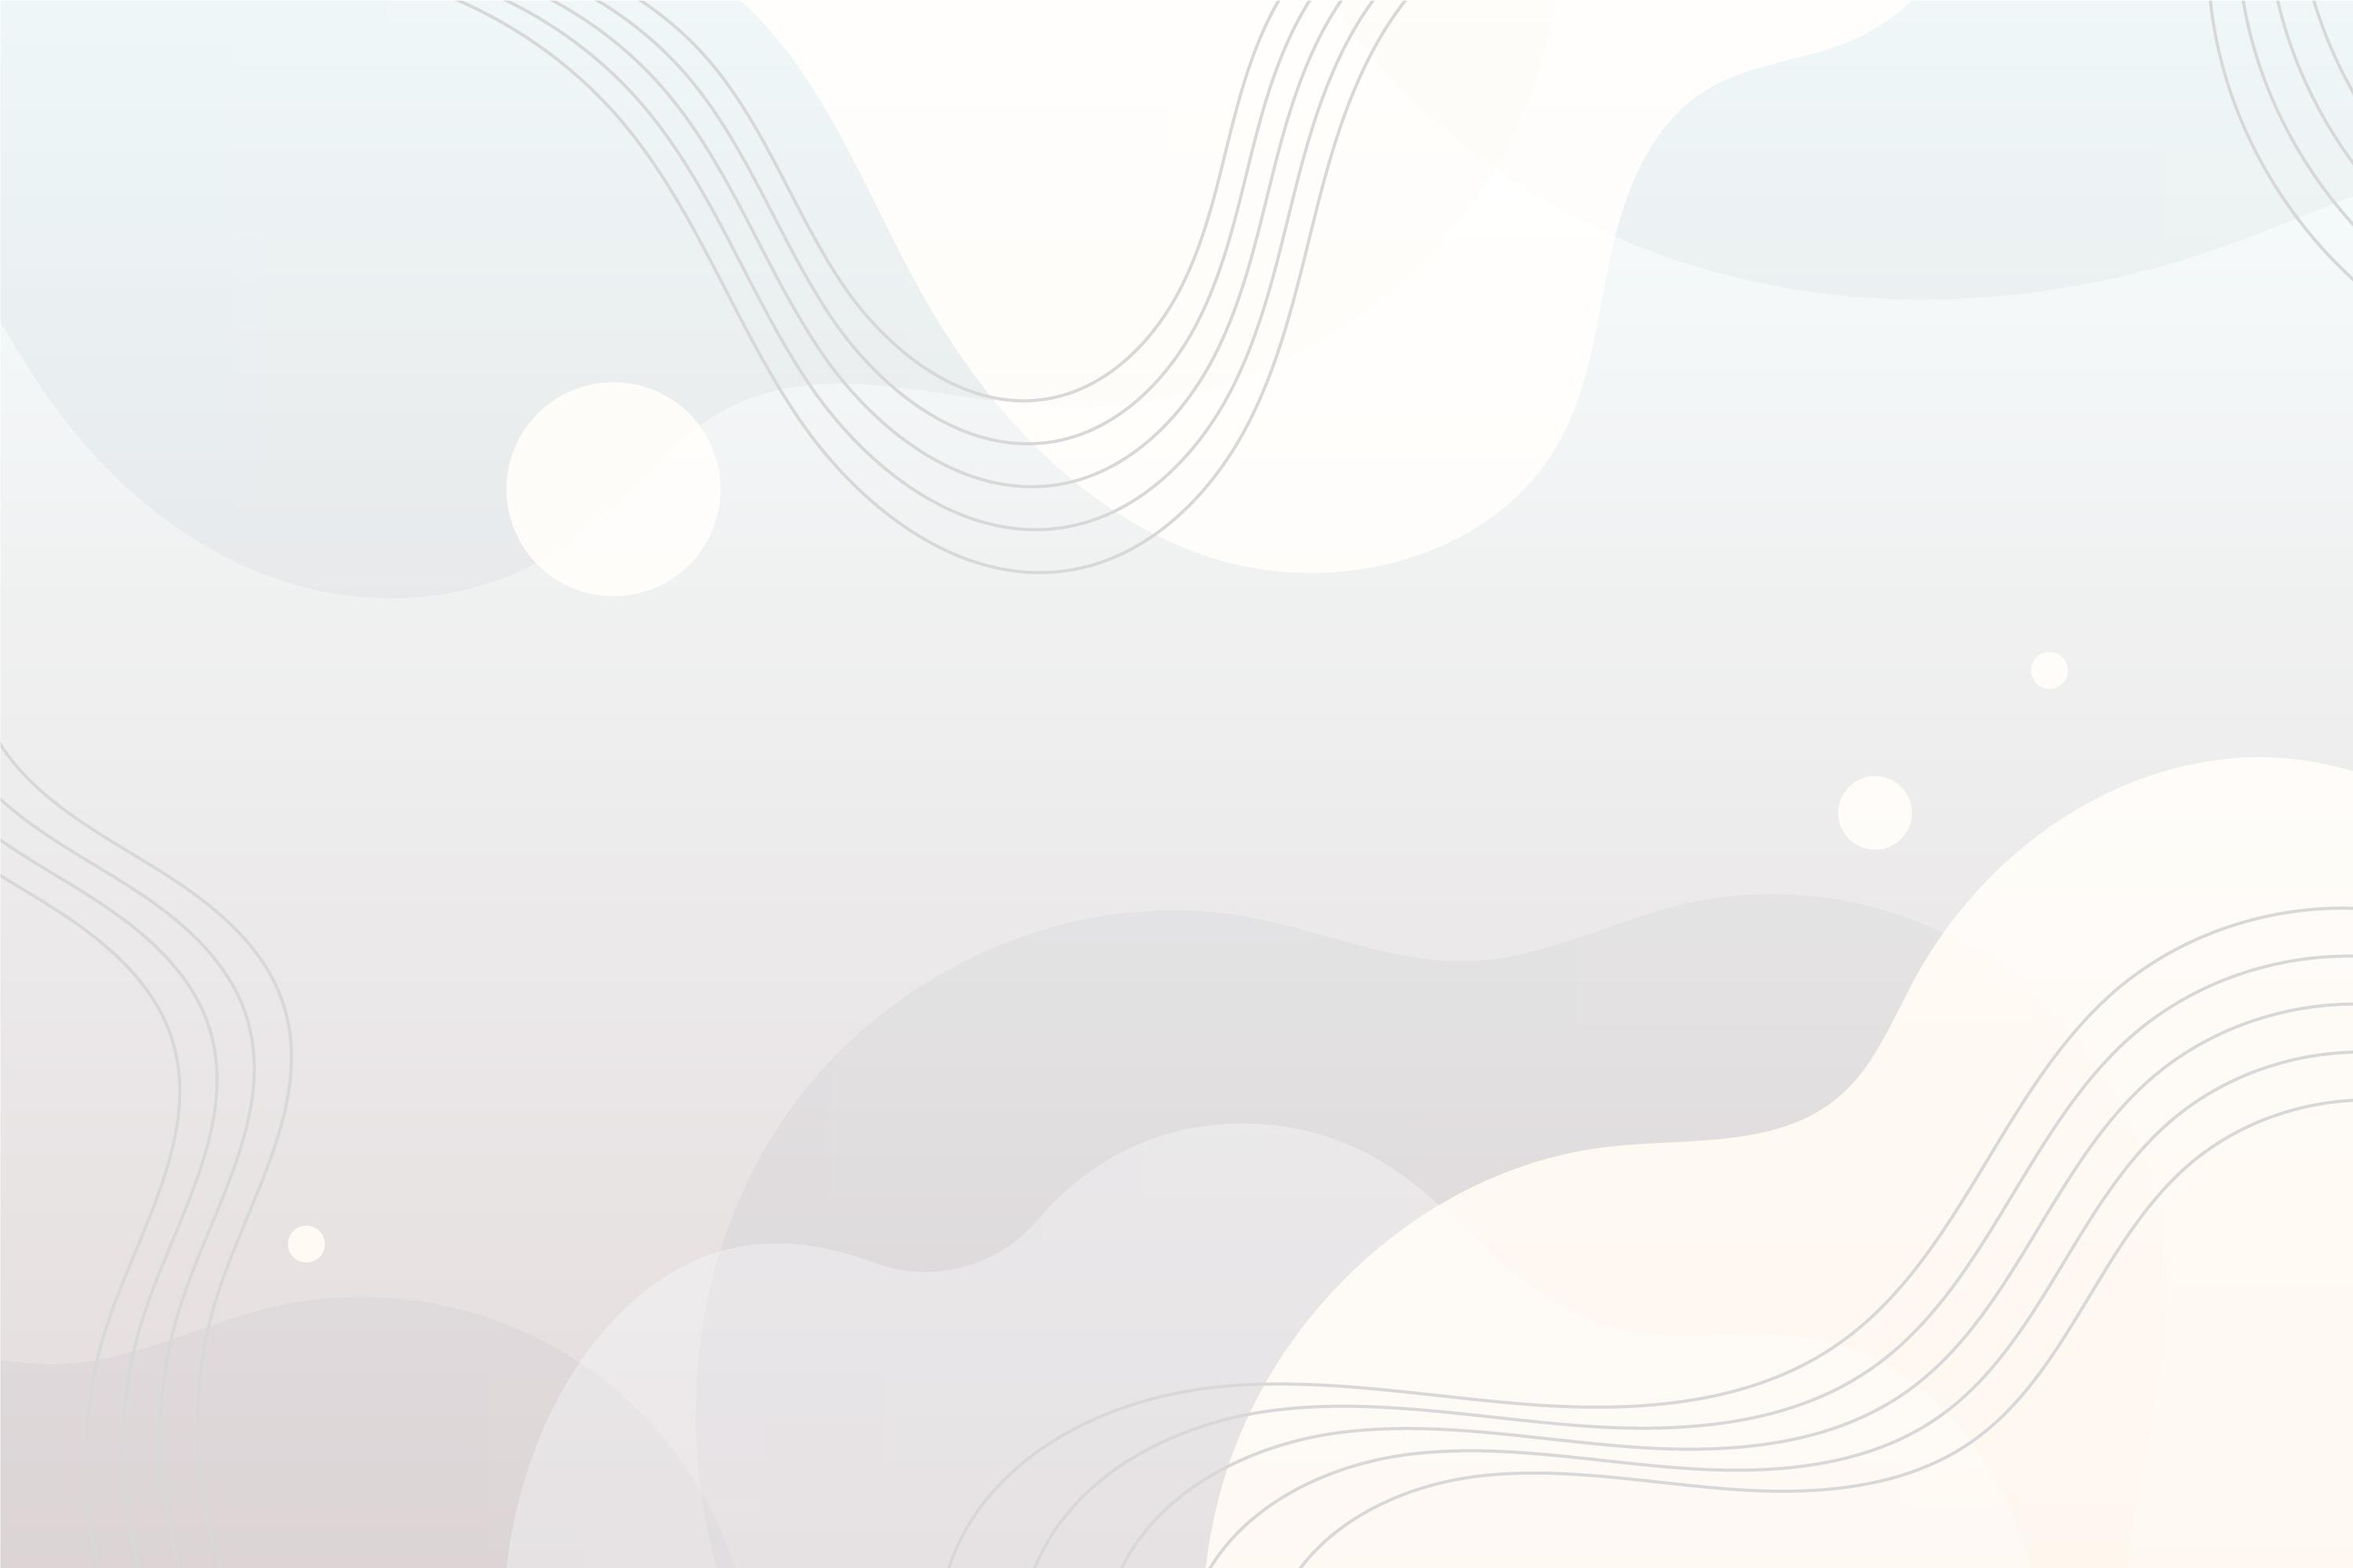
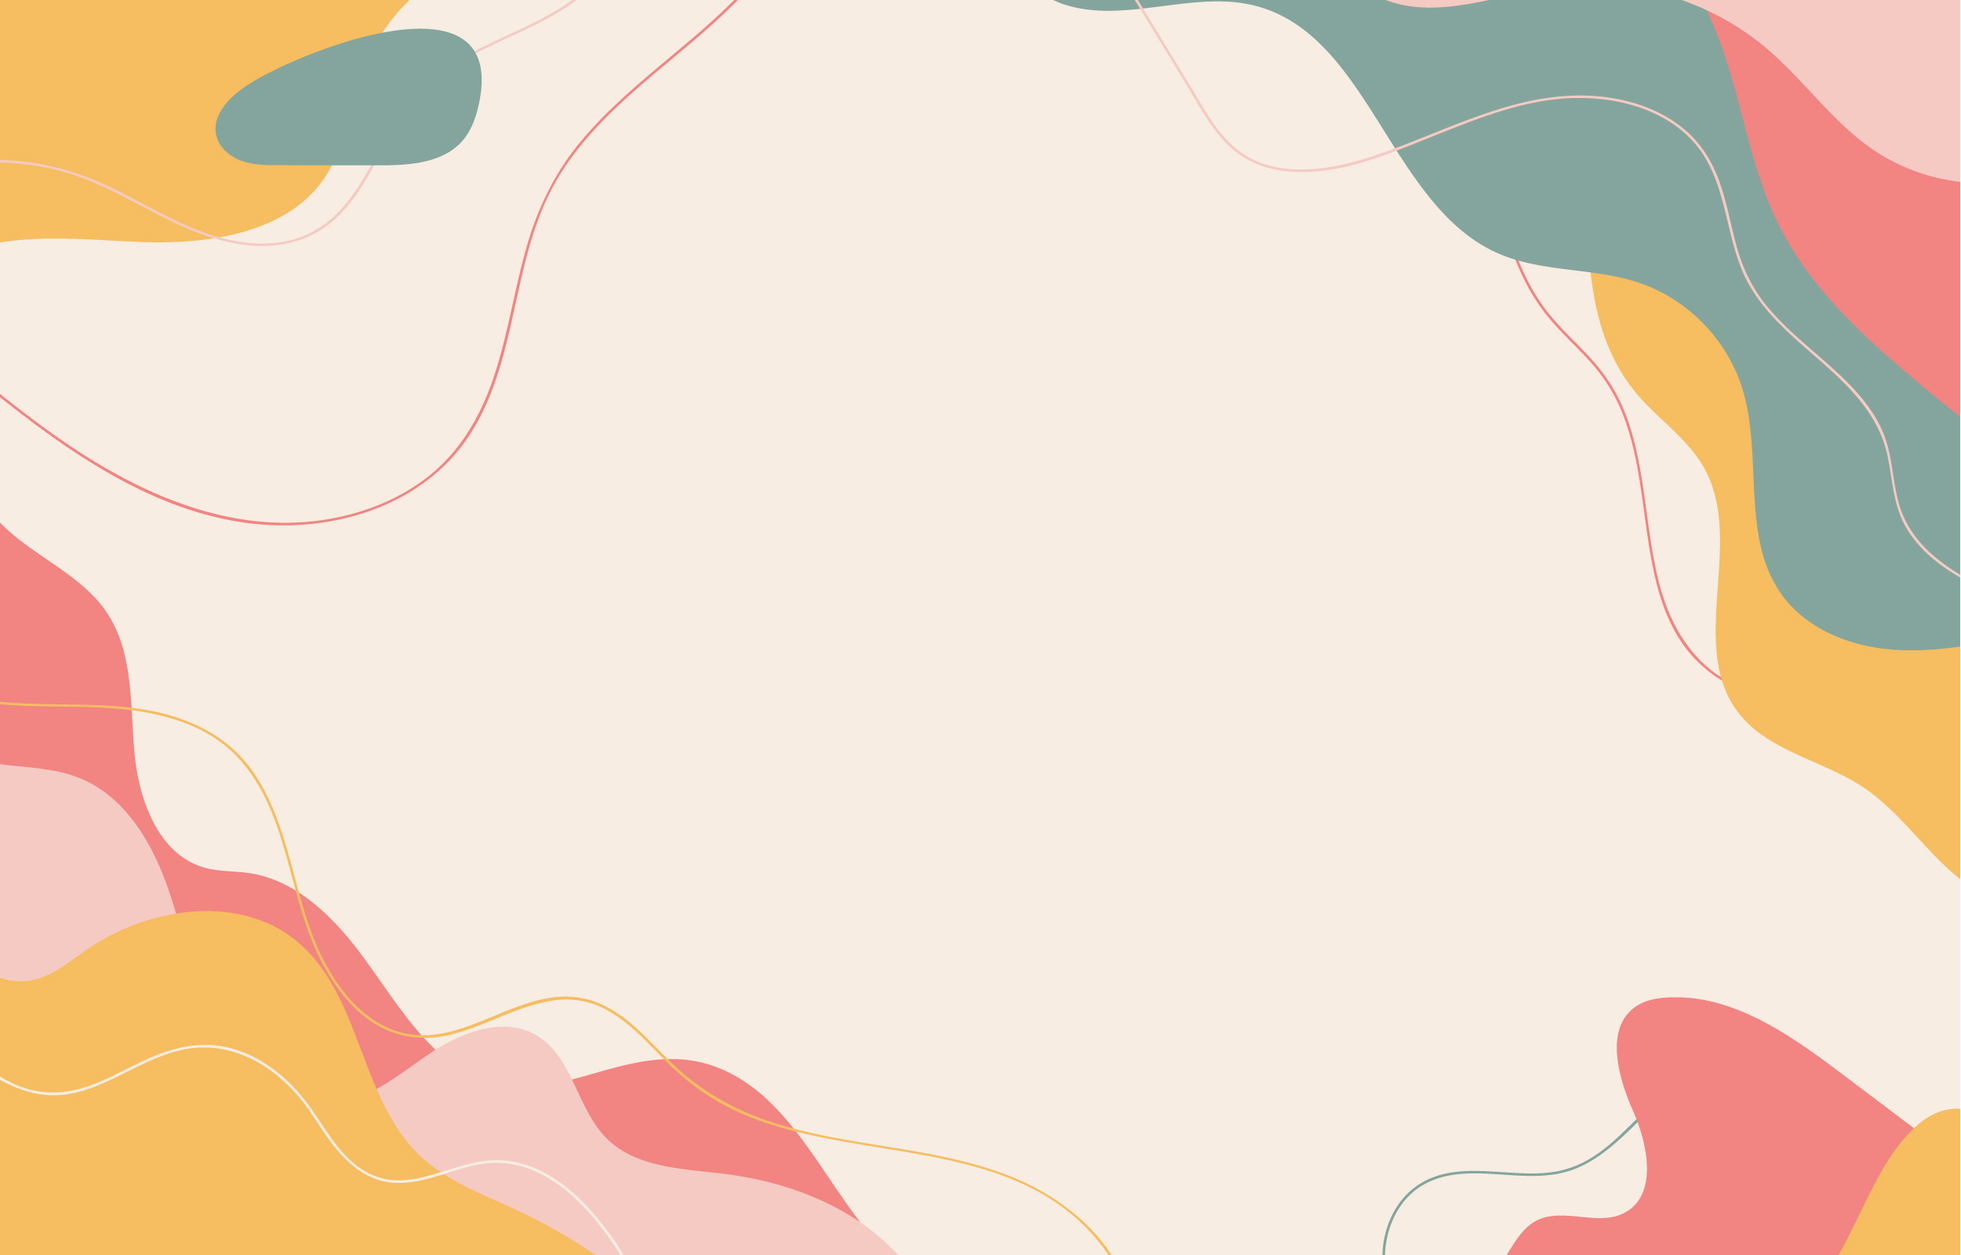
first commit

diff --git a/src/pages/Home.js b/src/pages/Home.js
@@ -1,6 +1,7 @@
 import React from 'react';
 import Card from '../components/Card';
 import CardData from '../data/card.json';
+import logo from '../images/educavo.png';
 
 const Home = () => {
 
@@ -13,17 +14,30 @@ const Home = () => {
 
     return (
         <section id="home">
-            <div className="container py-5">
-                <h1 className="heading">Welcome to <span className="color-primary heading">Study</span> <span className="color-secondary heading">Culture</span></h1>
+            <div className="homeHeader center">
+                <div className="container">
+                    <div className="d-flex center">
+                        <img src={logo} alt="" />
+                    </div>
+                    <h3 className="color-secondary fw-light text-center mb-5">The online <span className="color-primary">School</span></h3>
 
-                <div className="row">
-                    {
-                        HomeCardData.map(data => {
-                            return (
-                                <Card data={data} type="home" col="col-md-4" />
-                            )
-                        })
-                    }
+                    <div className="center">
+                        <a href="#classSection" className="btn btn-custom ">Explore our classes</a>
+                    </div>
+                </div>
+            </div>
+
+            <div id="classSection">
+                <div className="container py-5">
+                    <div className="row">
+                        {
+                            HomeCardData.map(data => {
+                                return (
+                                    <Card data={data} type="home" col="col-md-4" />
+                                )
+                            })
+                        }
+                    </div>
                 </div>
             </div>
         </section>

diff --git a/src/components/Navbar.js b/src/components/Navbar.js
@@ -1,10 +1,10 @@
 import React from 'react';
 import { Link } from 'react-router-dom';
-import logo from '../images/studyculture.png';
+import logo from '../images/educavo.png';
 
 const Navbar = () => {
     return (
-        <nav className="navbar navbar-expand-lg navbar-light bg-light">
+        <nav className="navbar navbar-expand-lg navbar-light shadow-5-strong">
             <div className="container">
                 <Link to="/" className="navbar-brand">
                     <img src={logo} style={{ height: "3rem", width: "auto" }} alt="" />
@@ -13,12 +13,12 @@ const Navbar = () => {
                     <span className="navbar-toggler-icon"></span>
                 </button>
                 <div className="collapse navbar-collapse" id="navbarNav">
-                    <ul className="navbar-nav ms-auto">
+                    <ul className="navbar-nav m-auto pe-5">
                         <li className="nav-item pe-3">
                             <Link to="/" className="nav-link active">Home</Link>
                         </li>
                         <li className="nav-item pe-3">
-                            <Link to="/services" className="nav-link">Services</Link>
+                            <Link to="/services" className="nav-link">All Class</Link>
                         </li>
                         <li className="nav-item pe-3">
                             <Link to="/" className="nav-link">About Us</Link>

diff --git a/src/css/style.css b/src/css/style.css
@@ -24,23 +24,23 @@
     padding: 20px 0px;
 }
 .color-primary{
-    color: #03526C;
+    color: #FFC306;
 }
 .color-secondary{
-    color: #FBB238;
+    color: #636466;
 }
 .btn-custom{
-    background: #03526C;
+    background: #FFC306;
     color: #fff;
     letter-spacing: 2px;
     padding: 5px 15px;
     transition: all ease .5s;
 }
 .btn-custom:hover{
-    border: 1px solid #03526C;
+    border: 1px solid #FFC306;
     font-weight: bold;
     background: #fff;
-    color: #03526C;
+    color: #FFC306;
     transition: all ease .5s;
 }
 
@@ -75,10 +75,11 @@
 }
 
 /* ----------- Home Page CSS------------ */
-#home{
+.homeHeader{
     background: url(../images/home-bg.jpg);
     background-size: cover;
     background-position: center;
+    height: 90vh;
 }
 
 

diff --git a/public/index.html b/public/index.html
@@ -3,7 +3,7 @@
 
 <head>
   <meta charset="utf-8" />
-  <link rel="icon" href="%PUBLIC_URL%/studyculture.png" />
+  <link rel="icon" href="%PUBLIC_URL%/educavo.png" />
   <meta name="viewport" content="width=device-width, initial-scale=1" />
   <meta name="theme-color" content="#000000" />
   <meta name="description" content="Web site created using create-react-app" />
@@ -22,7 +22,7 @@
       work correctly both with client-side routing and a non-root public URL.
       Learn how to configure a non-root public URL by running `npm run build`.
     -->
-  <title>Study Culture</title>
+  <title>Educavo</title>
 </head>
 
 <body>

diff --git a/src/components/Footer.js b/src/components/Footer.js
@@ -1,5 +1,5 @@
 import React from 'react';
-import logo from '../images/studyculture.png';
+import logo from '../images/educavo.png';
 
 const Footer = () => {
     return (

diff --git a/README.md b/README.md
@@ -69,3 +69,4 @@ This section has moved here: [https://facebook.github.io/create-react-app/docs/d
 
 This section has moved here: [https://facebook.github.io/create-react-app/docs/troubleshooting#npm-run-build-fails-to-minify](https://facebook.github.io/create-react-app/docs/troubleshooting#npm-run-build-fails-to-minify)
 # studyculture
+"# review-website-nayeem154" 
